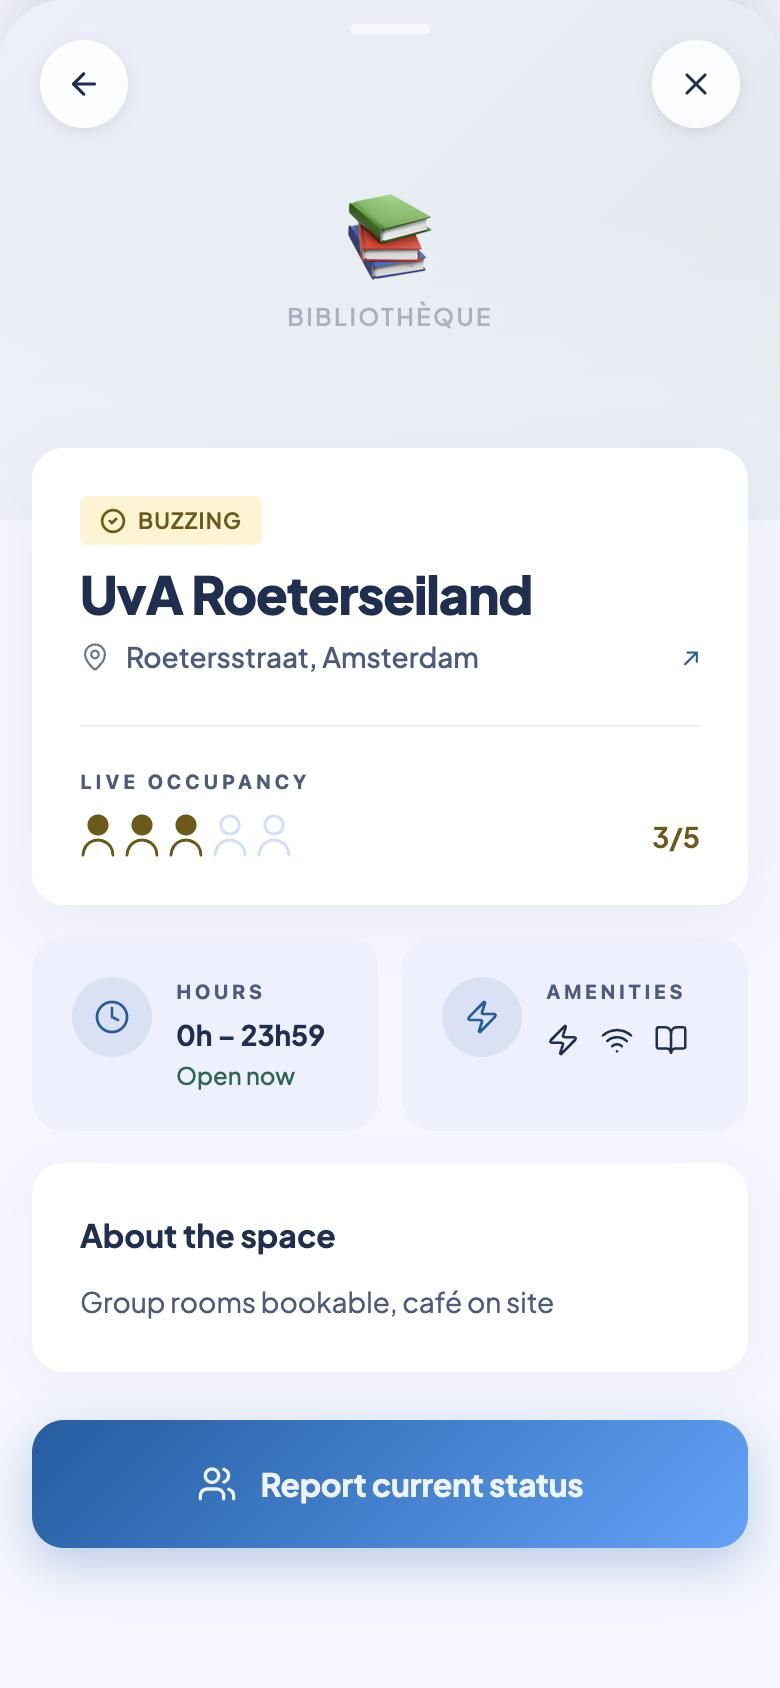
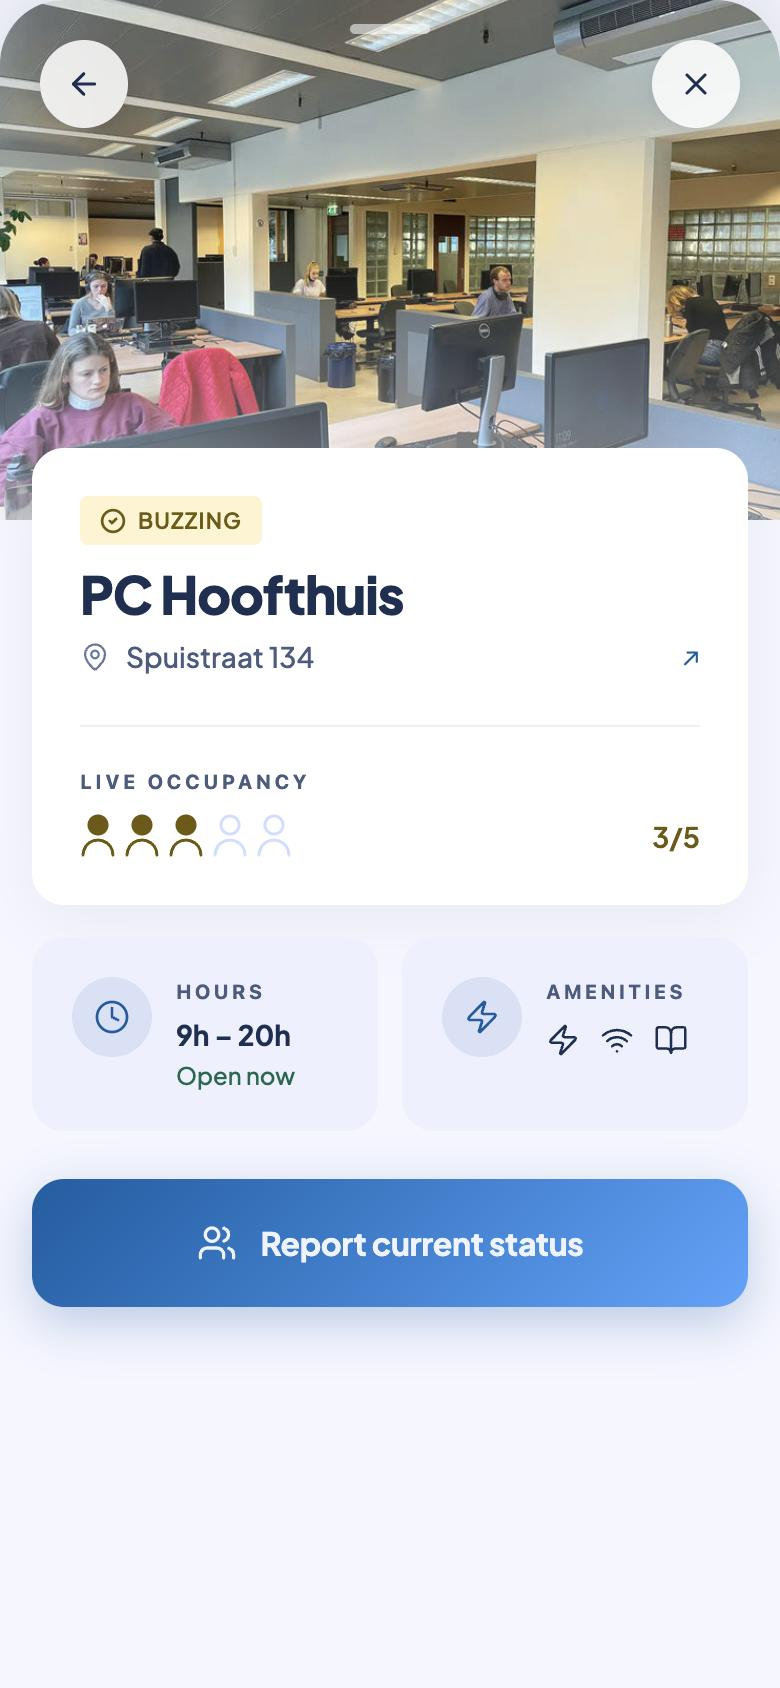
Update README screenshots with real Airtable data and a real profile
Explore, spot detail, report and map now show the live StudySpots data
(real photos, hours and crowd levels); the profile shows a logged-in
account instead of a sample user.

diff --git a/README.md b/README.md
@@ -74,7 +74,7 @@ flowchart LR
 | <img src="docs/screenshots/04-report.jpg" width="240" /> | <img src="docs/screenshots/05-map.jpg" width="240" /> | <img src="docs/screenshots/06-profile.jpg" width="240" /> |
 | Rate the crowd from 1 (empty) to 5 (full) | Every spot in the city at a glance | Score, level progress and badges |
 
-<sub>The screenshots were taken in demo mode, with sample spots and a sample user. The live app loads real spots, photos and opening hours from Airtable.</sub>
+<sub>All screenshots come from the running app: real spots, photos and opening hours from the Airtable database, and a real logged-in account on the profile screen.</sub>
 
 ---
 
